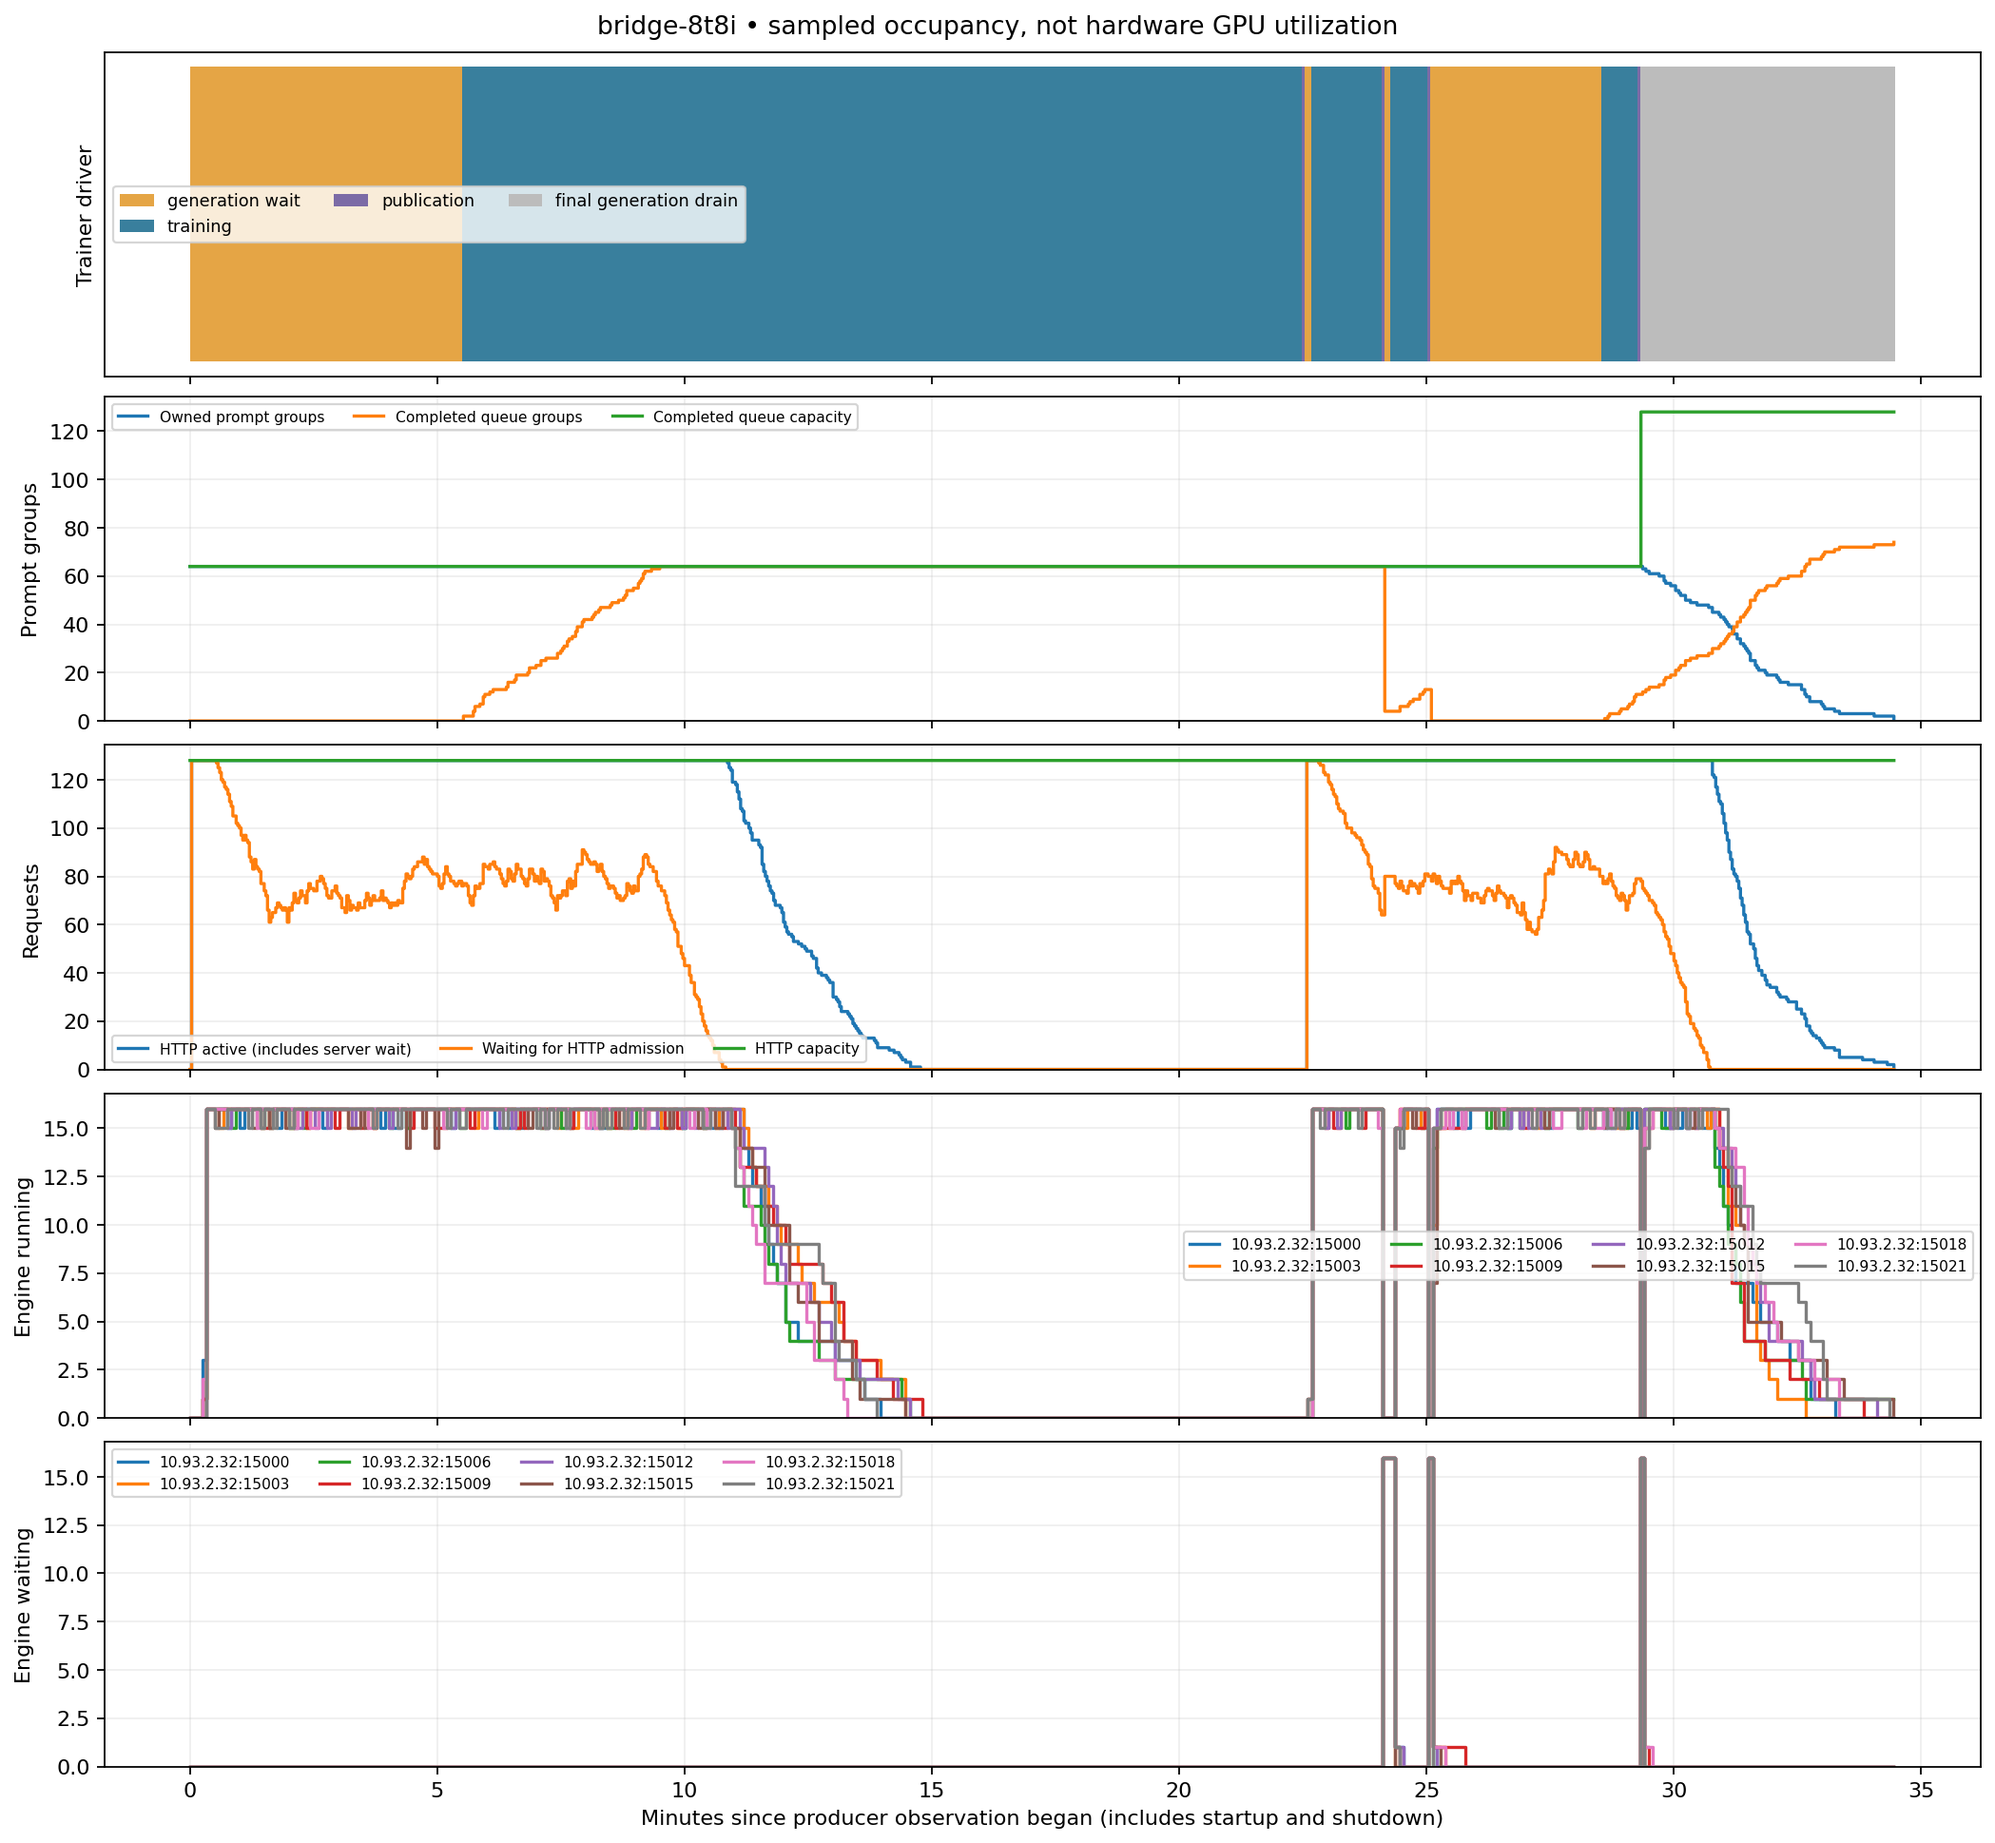
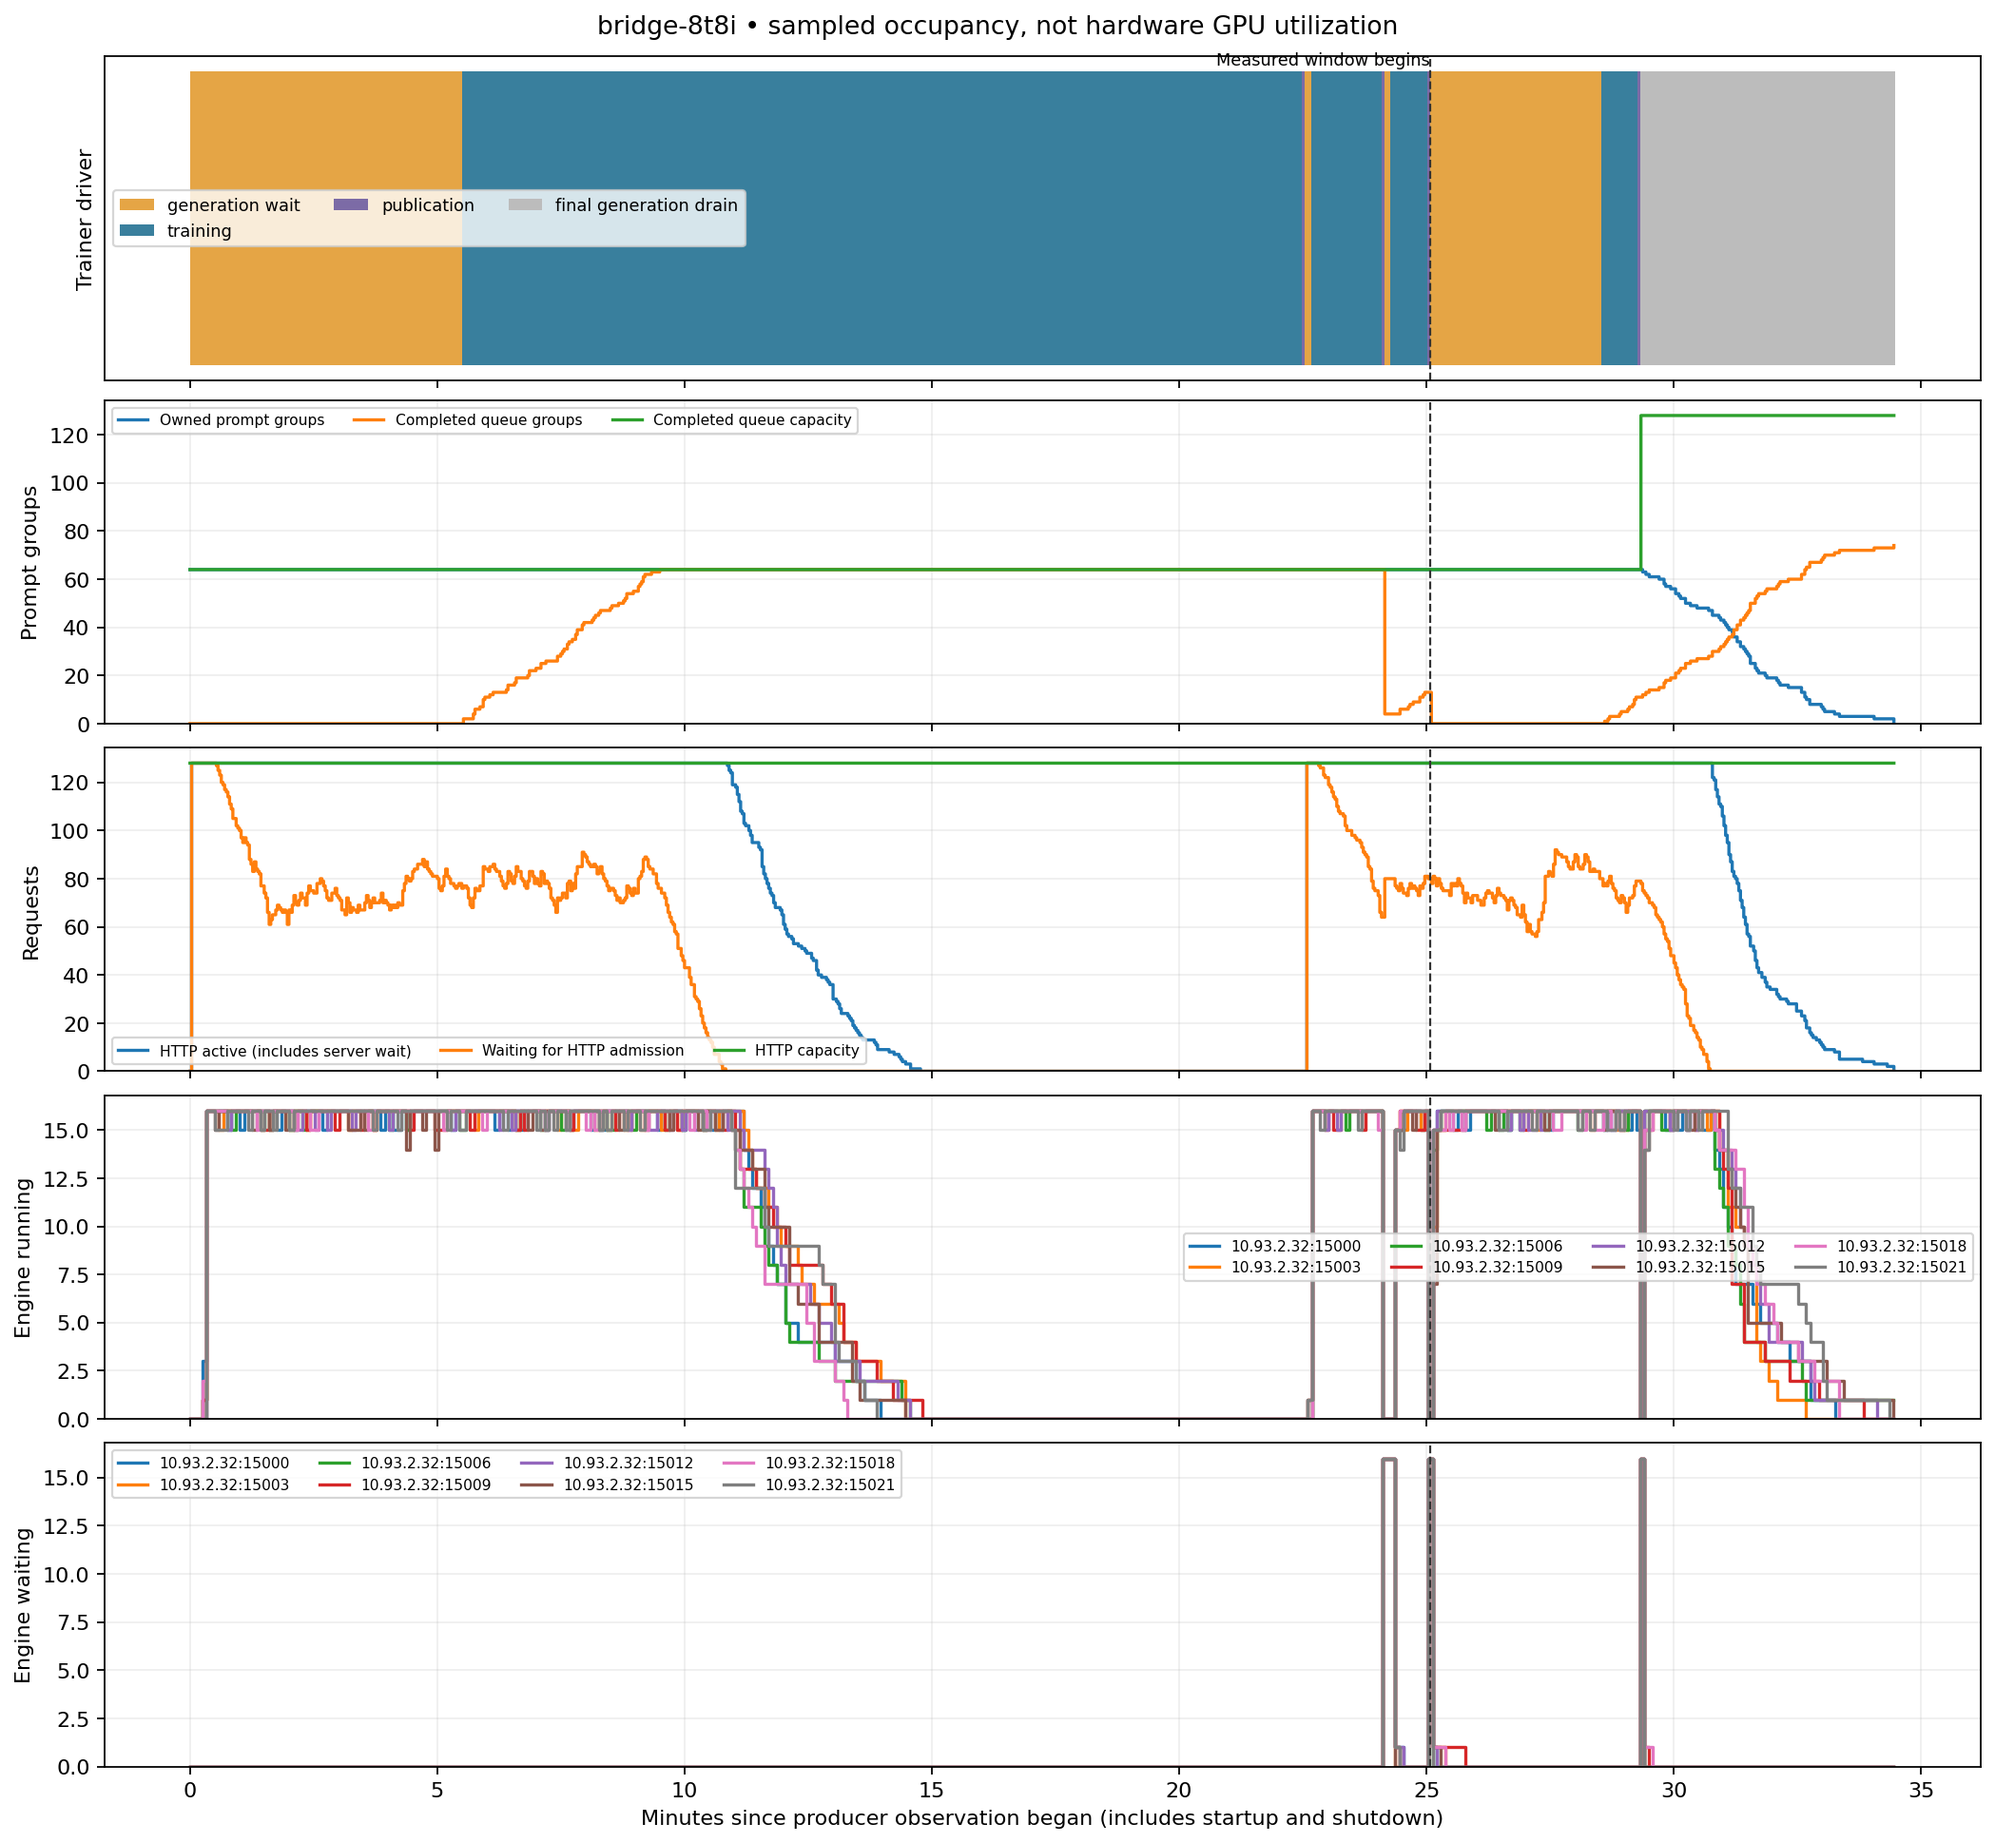
Draw measured queue maps and mark observation gaps

diff --git a/scripts/miles/plot_throughput_basket.py b/scripts/miles/plot_throughput_basket.py
@@ -138,6 +138,16 @@ def comparisons(data, output):
     save(fig, output, "discard-by-length")
 
 
+def observed_steps(points, *, max_hold_minutes=10 / 60):
+    """Break sampled lines at missing observations instead of implying long holds."""
+    result = []
+    for i, (timestamp, value) in enumerate(points):
+        result.append((timestamp, float("nan") if value is None else value))
+        if i + 1 < len(points) and points[i + 1][0] > timestamp + max_hold_minutes:
+            result.append((timestamp + max_hold_minutes, float("nan")))
+    return [p[0] for p in result], [p[1] for p in result]
+
+
 def occupancy(root, output, name):
     stages = read_rows(root / "checkpoints/driver_timing.jsonl")
     producer = read_rows(root / "checkpoints/pipeline_occupancy.jsonl")
@@ -161,10 +171,8 @@ def occupancy(root, output, name):
         ("http_waiting_requests", 2, "Waiting for HTTP admission"),
         ("http_capacity_requests", 2, "HTTP capacity"),
     ):
-        points = [r for r in producer if r.get(key) is not None]
-        axes[axis].step(
-            [(r["time_unix"] - start) / 60 for r in points], [r[key] for r in points], where="post", label=label
-        )
+        points = [((r["time_unix"] - start) / 60, r.get(key)) for r in producer]
+        axes[axis].step(*observed_steps(points), where="post", label=label)
     for identity in sorted({r["engine"] for r in engines if "engine" in r}):
         for key, axis in (("num_running_reqs", 3), ("num_queue_reqs", 4)):
             points = []
@@ -174,23 +182,28 @@ def occupancy(root, output, name):
                 series = [s for s in r.get("series", []) if s["name"] == key]
                 # These exercises use one TP1/DP1 engine per URL. Multi-series
                 # endpoints need an explicit rank aggregation rather than a guess.
-                if len(series) == 1 and series[0]["value"] is not None:
-                    points.append(((r["time_unix"] - start) / 60, series[0]["value"]))
-            if points:
-                axes[axis].step(
-                    [p[0] for p in points],
-                    [p[1] for p in points],
-                    where="post",
-                    label=identity.removeprefix("http://"),
-                )
+                value = series[0]["value"] if len(series) == 1 else None
+                points.append(((r["time_unix"] - start) / 60, value))
+            if any(value is not None for _, value in points):
+                axes[axis].step(*observed_steps(points), where="post", label=identity.removeprefix("http://"))
     for index, ax in enumerate(axes[1:], 1):
         ax.set_ylabel(("", "Prompt groups", "Requests", "Engine running", "Engine waiting")[index])
         ax.set_ylim(bottom=0)
         ax.grid(alpha=0.2)
-        if ax.lines:
+        if 0 < len(ax.lines) <= 8:
             ax.legend(ncols=4, fontsize=7)
+        elif ax.lines:
+            ax.text(0.01, 0.95, f"{len(ax.lines)} individual engines", transform=ax.transAxes, va="top", fontsize=8)
         else:
             ax.text(0.5, 0.5, "No usable observations", transform=ax.transAxes, ha="center")
+    measured_path = root / "measured-cycles.json"
+    warmup = json.loads(measured_path.read_text())["warmup_updates"] if measured_path.exists() else 6
+    measured_stages = [r for r in stages if r["stage"] == "generation_wait" and r["rollout_id"] == warmup]
+    warm_start = (measured_stages[0]["started_unix"] - start) / 60 if measured_stages else None
+    if warm_start is not None:
+        for ax in axes:
+            ax.axvline(warm_start, linestyle="--", color="#333333", linewidth=1)
+        axes[0].text(warm_start, 1.02, "Measured window begins", fontsize=8, ha="right")
     axes[-1].set_xlabel("Minutes since producer observation began (includes startup and shutdown)")
     fig.suptitle(name + " • sampled occupancy, not hardware GPU utilization")
     save(fig, output, name + "-pipeline")
@@ -236,6 +249,107 @@ def occupancy(root, output, name):
     save(fig, output, name + "-gpu-activity")
 
 
+def pipeline_map(report, output, name):
+    """Annotate the data path with measured queue occupancy and driver service times."""
+    if "occupancy" not in report:
+        return
+    occupancy_data = report["occupancy"]
+    queues = occupancy_data["pipeline"]
+
+    def value(key, field="mean", suffix=""):
+        row = queues.get(key, {})
+        number = row.get(field)
+        if number is None:
+            return "unobserved"
+        return f"{number:.1f}{suffix}"
+
+    def engine_value(key):
+        rows = [s for e in occupancy_data["engines"].values() for s in e["series"] if s["name"] == key]
+        numbers = [s["mean"] for s in rows if s["mean"] is not None]
+        return f"{min(numbers):.1f}–{max(numbers):.1f} / engine" if numbers else "unobserved"
+
+    means = {stage: statistics.mean(r[stage + "_seconds"] for r in report["per_update"]) for stage in COLORS}
+    boxes = [
+        (
+            0,
+            1,
+            "Producer",
+            f"Owned groups: {value('producer_owned_groups')} mean\nActive tasks: {value('producer_active_group_tasks')} mean",
+        ),
+        (
+            1,
+            1,
+            "HTTP admission",
+            f"Active: {value('http_active_requests')} mean\nWaiting: {value('http_waiting_requests')} mean\nCapacity: {value('http_capacity_requests')} requests",
+        ),
+        (2, 1, "Engine queue", f"Waiting: {engine_value('num_queue_reqs')}\nRouter residence: not timed"),
+        (3, 1, "Prefill / decode", f"Running: {engine_value('num_running_reqs')}\nSee NVML activity timeline"),
+        (
+            3,
+            0,
+            "Verification / siblings",
+            "Local GSM8K verification\nWait for all group members\nNot separately timed",
+        ),
+        (
+            2,
+            0,
+            "Completed FIFO",
+            f"Groups: {value('completed_queue_groups')} mean\nP95: {value('completed_queue_groups', 'p95')} / capacity {value('completed_queue_capacity_groups')}\nDropped tokens: {100 * report['discarded_token_fraction']:.1f}%",
+        ),
+        (
+            1,
+            0,
+            "Trainer",
+            f"Batch wait: {means['generation_wait']:.1f} s / cycle\nScore + train: {means['training']:.1f} s / cycle\nTraining + publication: {100 * (1 - report['trainer_wait_fraction']):.1f}% of cycle",
+        ),
+        (
+            0,
+            0,
+            "Weight publication",
+            f"{means['publication']:.1f} s / cycle\nRefresh paused engines\nRetained prefix is re-prefilled",
+        ),
+    ]
+    fig, ax = plt.subplots(figsize=(16, 6), layout="constrained")
+    ax.set(xlim=(-0.65, 3.65), ylim=(-0.55, 1.6))
+    ax.axis("off")
+    for x, y, title, body in boxes:
+        ax.text(
+            x,
+            y,
+            title + "\n\n" + body,
+            ha="center",
+            va="center",
+            fontsize=9,
+            bbox=dict(boxstyle="round,pad=0.8", facecolor="#eef3f5", edgecolor="#397f9d"),
+        )
+    for left, right in zip(boxes, boxes[1:]):
+        x1, y1 = left[:2]
+        x2, y2 = right[:2]
+        dx, dy = x2 - x1, y2 - y1
+        ax.annotate(
+            "",
+            xy=(x2 - 0.43 * dx, y2 - 0.28 * dy),
+            xytext=(x1 + 0.43 * dx, y1 + 0.28 * dy),
+            arrowprops=dict(arrowstyle="->", color="#555555", linewidth=1.5),
+        )
+    ax.text(
+        1.5,
+        -0.42,
+        "Publication updates the serving fleet; the generation path runs concurrently with training.",
+        ha="center",
+        fontsize=9,
+        color="#555555",
+    )
+    coverage = [r["coverage_fraction"] for r in queues.values() if r["mean"] is not None]
+    minimum = min(coverage) if coverage else 0
+    fig.suptitle(
+        f"{name} • {report['measured_updates']} measured updates • queue coverage ≥ {100 * minimum:.1f}%\n"
+        "Queue means are time-weighted; driver fractions are not hardware utilization",
+        fontsize=13,
+    )
+    save(fig, output, name + "-map")
+
+
 def main():
     parser = argparse.ArgumentParser(description=__doc__)
     parser.add_argument("results", type=Path)
@@ -247,6 +361,9 @@ def main():
     for item in args.run_root:
         name, root = item.split("=", 1)
         occupancy(Path(root), args.output, name)
+        measured = Path(root) / "measured-cycles.json"
+        if measured.exists():
+            pipeline_map(json.loads(measured.read_text()), args.output, name)
 
 
 if __name__ == "__main__":
